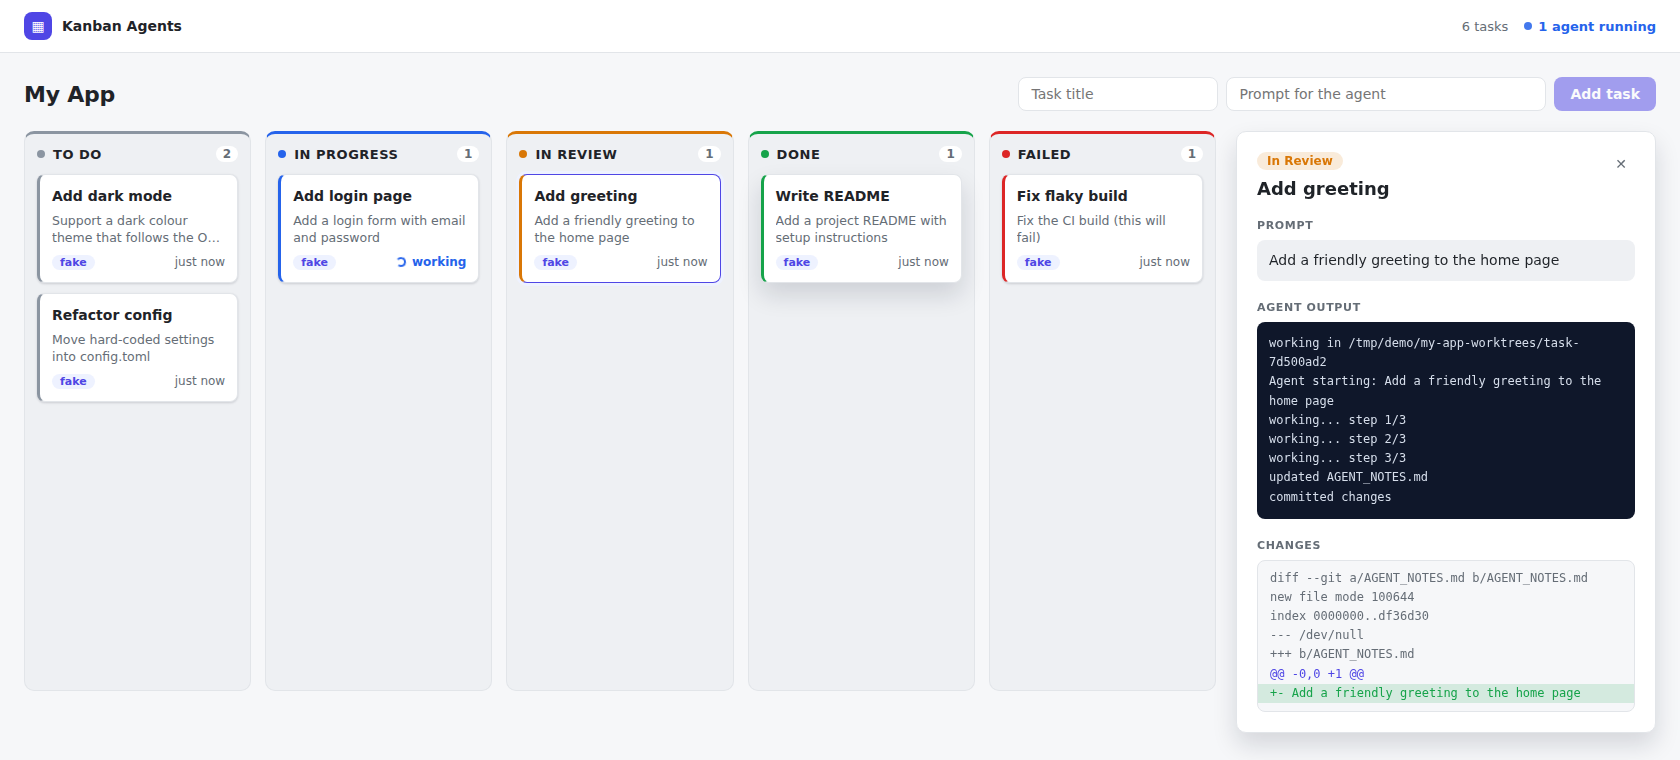
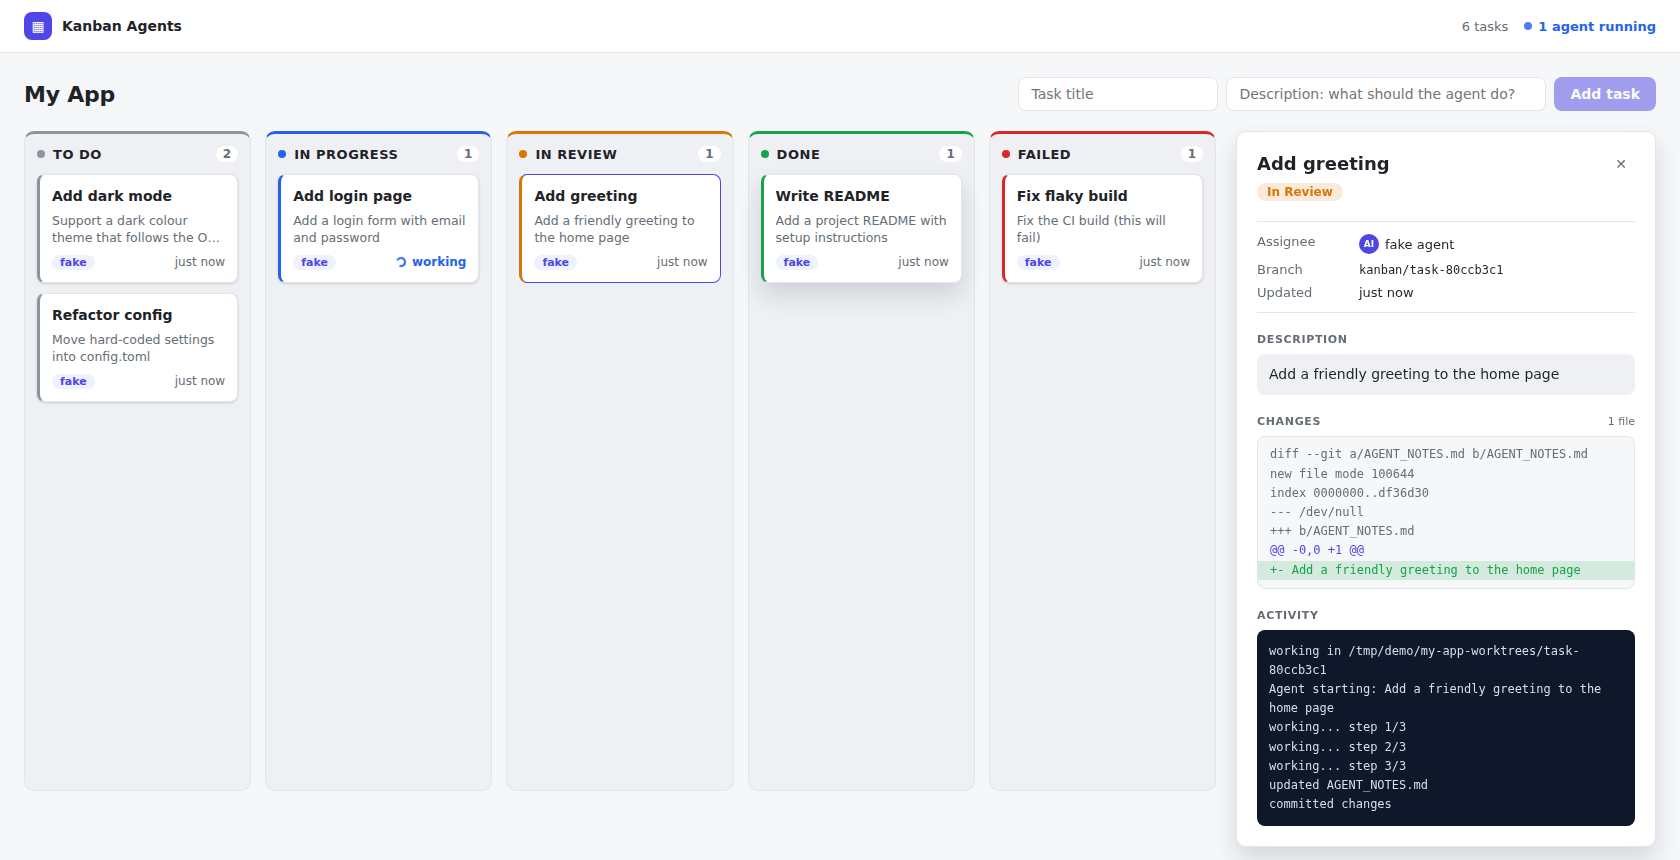
Task panel: Jira-style details, description, changes, activity

diff --git a/web/src/gql/graphql.ts b/web/src/gql/graphql.ts
@@ -41,7 +41,7 @@ export type TaskLogsQueryVariables = Exact<{
 }>;
 
 
-export type TaskLogsQuery = { task: { id: string, title: string, status: TaskStatus, prompt: string, diff: string | null, logs: Array<{ runId: string, seq: number, content: string }> } | null };
+export type TaskLogsQuery = { task: { id: string, title: string, status: TaskStatus, prompt: string, agent: AgentKind, branch: string | null, updatedAt: string, diff: string | null, logs: Array<{ runId: string, seq: number, content: string }> } | null };
 
 export type TaskLogsLiveSubscriptionVariables = Exact<{
   taskId: string;
@@ -63,6 +63,6 @@ export type CreateTaskMutation = { createTask: { id: string } };
 export const BoardDocument = {"kind":"Document","definitions":[{"kind":"OperationDefinition","operation":"query","name":{"kind":"Name","value":"Board"},"selectionSet":{"kind":"SelectionSet","selections":[{"kind":"Field","name":{"kind":"Name","value":"projects"},"selectionSet":{"kind":"SelectionSet","selections":[{"kind":"Field","name":{"kind":"Name","value":"id"}},{"kind":"Field","name":{"kind":"Name","value":"name"}},{"kind":"Field","name":{"kind":"Name","value":"tasks"},"selectionSet":{"kind":"SelectionSet","selections":[{"kind":"Field","name":{"kind":"Name","value":"id"}},{"kind":"Field","name":{"kind":"Name","value":"title"}},{"kind":"Field","name":{"kind":"Name","value":"prompt"}},{"kind":"Field","name":{"kind":"Name","value":"status"}},{"kind":"Field","name":{"kind":"Name","value":"agent"}},{"kind":"Field","name":{"kind":"Name","value":"updatedAt"}}]}}]}}]}}]} as unknown as DocumentNode<BoardQuery, BoardQueryVariables>;
 export const MoveTaskDocument = {"kind":"Document","definitions":[{"kind":"OperationDefinition","operation":"mutation","name":{"kind":"Name","value":"MoveTask"},"variableDefinitions":[{"kind":"VariableDefinition","variable":{"kind":"Variable","name":{"kind":"Name","value":"id"}},"type":{"kind":"NonNullType","type":{"kind":"NamedType","name":{"kind":"Name","value":"UUID"}}}},{"kind":"VariableDefinition","variable":{"kind":"Variable","name":{"kind":"Name","value":"status"}},"type":{"kind":"NonNullType","type":{"kind":"NamedType","name":{"kind":"Name","value":"TaskStatus"}}}}],"selectionSet":{"kind":"SelectionSet","selections":[{"kind":"Field","name":{"kind":"Name","value":"moveTask"},"arguments":[{"kind":"Argument","name":{"kind":"Name","value":"id"},"value":{"kind":"Variable","name":{"kind":"Name","value":"id"}}},{"kind":"Argument","name":{"kind":"Name","value":"status"},"value":{"kind":"Variable","name":{"kind":"Name","value":"status"}}}],"selectionSet":{"kind":"SelectionSet","selections":[{"kind":"Field","name":{"kind":"Name","value":"id"}},{"kind":"Field","name":{"kind":"Name","value":"status"}}]}}]}}]} as unknown as DocumentNode<MoveTaskMutation, MoveTaskMutationVariables>;
 export const TaskUpdatedDocument = {"kind":"Document","definitions":[{"kind":"OperationDefinition","operation":"subscription","name":{"kind":"Name","value":"TaskUpdated"},"variableDefinitions":[{"kind":"VariableDefinition","variable":{"kind":"Variable","name":{"kind":"Name","value":"projectId"}},"type":{"kind":"NonNullType","type":{"kind":"NamedType","name":{"kind":"Name","value":"UUID"}}}}],"selectionSet":{"kind":"SelectionSet","selections":[{"kind":"Field","name":{"kind":"Name","value":"taskUpdated"},"arguments":[{"kind":"Argument","name":{"kind":"Name","value":"projectId"},"value":{"kind":"Variable","name":{"kind":"Name","value":"projectId"}}}],"selectionSet":{"kind":"SelectionSet","selections":[{"kind":"Field","name":{"kind":"Name","value":"id"}}]}}]}}]} as unknown as DocumentNode<TaskUpdatedSubscription, TaskUpdatedSubscriptionVariables>;
-export const TaskLogsDocument = {"kind":"Document","definitions":[{"kind":"OperationDefinition","operation":"query","name":{"kind":"Name","value":"TaskLogs"},"variableDefinitions":[{"kind":"VariableDefinition","variable":{"kind":"Variable","name":{"kind":"Name","value":"id"}},"type":{"kind":"NonNullType","type":{"kind":"NamedType","name":{"kind":"Name","value":"UUID"}}}}],"selectionSet":{"kind":"SelectionSet","selections":[{"kind":"Field","name":{"kind":"Name","value":"task"},"arguments":[{"kind":"Argument","name":{"kind":"Name","value":"id"},"value":{"kind":"Variable","name":{"kind":"Name","value":"id"}}}],"selectionSet":{"kind":"SelectionSet","selections":[{"kind":"Field","name":{"kind":"Name","value":"id"}},{"kind":"Field","name":{"kind":"Name","value":"title"}},{"kind":"Field","name":{"kind":"Name","value":"status"}},{"kind":"Field","name":{"kind":"Name","value":"prompt"}},{"kind":"Field","name":{"kind":"Name","value":"diff"}},{"kind":"Field","name":{"kind":"Name","value":"logs"},"selectionSet":{"kind":"SelectionSet","selections":[{"kind":"Field","name":{"kind":"Name","value":"runId"}},{"kind":"Field","name":{"kind":"Name","value":"seq"}},{"kind":"Field","name":{"kind":"Name","value":"content"}}]}}]}}]}}]} as unknown as DocumentNode<TaskLogsQuery, TaskLogsQueryVariables>;
+export const TaskLogsDocument = {"kind":"Document","definitions":[{"kind":"OperationDefinition","operation":"query","name":{"kind":"Name","value":"TaskLogs"},"variableDefinitions":[{"kind":"VariableDefinition","variable":{"kind":"Variable","name":{"kind":"Name","value":"id"}},"type":{"kind":"NonNullType","type":{"kind":"NamedType","name":{"kind":"Name","value":"UUID"}}}}],"selectionSet":{"kind":"SelectionSet","selections":[{"kind":"Field","name":{"kind":"Name","value":"task"},"arguments":[{"kind":"Argument","name":{"kind":"Name","value":"id"},"value":{"kind":"Variable","name":{"kind":"Name","value":"id"}}}],"selectionSet":{"kind":"SelectionSet","selections":[{"kind":"Field","name":{"kind":"Name","value":"id"}},{"kind":"Field","name":{"kind":"Name","value":"title"}},{"kind":"Field","name":{"kind":"Name","value":"status"}},{"kind":"Field","name":{"kind":"Name","value":"prompt"}},{"kind":"Field","name":{"kind":"Name","value":"agent"}},{"kind":"Field","name":{"kind":"Name","value":"branch"}},{"kind":"Field","name":{"kind":"Name","value":"updatedAt"}},{"kind":"Field","name":{"kind":"Name","value":"diff"}},{"kind":"Field","name":{"kind":"Name","value":"logs"},"selectionSet":{"kind":"SelectionSet","selections":[{"kind":"Field","name":{"kind":"Name","value":"runId"}},{"kind":"Field","name":{"kind":"Name","value":"seq"}},{"kind":"Field","name":{"kind":"Name","value":"content"}}]}}]}}]}}]} as unknown as DocumentNode<TaskLogsQuery, TaskLogsQueryVariables>;
 export const TaskLogsLiveDocument = {"kind":"Document","definitions":[{"kind":"OperationDefinition","operation":"subscription","name":{"kind":"Name","value":"TaskLogsLive"},"variableDefinitions":[{"kind":"VariableDefinition","variable":{"kind":"Variable","name":{"kind":"Name","value":"taskId"}},"type":{"kind":"NonNullType","type":{"kind":"NamedType","name":{"kind":"Name","value":"UUID"}}}}],"selectionSet":{"kind":"SelectionSet","selections":[{"kind":"Field","name":{"kind":"Name","value":"taskLogs"},"arguments":[{"kind":"Argument","name":{"kind":"Name","value":"taskId"},"value":{"kind":"Variable","name":{"kind":"Name","value":"taskId"}}}],"selectionSet":{"kind":"SelectionSet","selections":[{"kind":"Field","name":{"kind":"Name","value":"runId"}},{"kind":"Field","name":{"kind":"Name","value":"seq"}},{"kind":"Field","name":{"kind":"Name","value":"content"}}]}}]}}]} as unknown as DocumentNode<TaskLogsLiveSubscription, TaskLogsLiveSubscriptionVariables>;
 export const CreateTaskDocument = {"kind":"Document","definitions":[{"kind":"OperationDefinition","operation":"mutation","name":{"kind":"Name","value":"CreateTask"},"variableDefinitions":[{"kind":"VariableDefinition","variable":{"kind":"Variable","name":{"kind":"Name","value":"projectId"}},"type":{"kind":"NonNullType","type":{"kind":"NamedType","name":{"kind":"Name","value":"UUID"}}}},{"kind":"VariableDefinition","variable":{"kind":"Variable","name":{"kind":"Name","value":"title"}},"type":{"kind":"NonNullType","type":{"kind":"NamedType","name":{"kind":"Name","value":"String"}}}},{"kind":"VariableDefinition","variable":{"kind":"Variable","name":{"kind":"Name","value":"prompt"}},"type":{"kind":"NonNullType","type":{"kind":"NamedType","name":{"kind":"Name","value":"String"}}}}],"selectionSet":{"kind":"SelectionSet","selections":[{"kind":"Field","name":{"kind":"Name","value":"createTask"},"arguments":[{"kind":"Argument","name":{"kind":"Name","value":"projectId"},"value":{"kind":"Variable","name":{"kind":"Name","value":"projectId"}}},{"kind":"Argument","name":{"kind":"Name","value":"title"},"value":{"kind":"Variable","name":{"kind":"Name","value":"title"}}},{"kind":"Argument","name":{"kind":"Name","value":"prompt"},"value":{"kind":"Variable","name":{"kind":"Name","value":"prompt"}}}],"selectionSet":{"kind":"SelectionSet","selections":[{"kind":"Field","name":{"kind":"Name","value":"id"}}]}}]}}]} as unknown as DocumentNode<CreateTaskMutation, CreateTaskMutationVariables>;

diff --git a/web/src/gql/gql.ts b/web/src/gql/gql.ts
@@ -17,7 +17,7 @@ type Documents = {
     "\n  query Board {\n    projects {\n      id\n      name\n      tasks {\n        id\n        title\n        prompt\n        status\n        agent\n        updatedAt\n      }\n    }\n  }\n": typeof types.BoardDocument,
     "\n  mutation MoveTask($id: UUID!, $status: TaskStatus!) {\n    moveTask(id: $id, status: $status) {\n      id\n      status\n    }\n  }\n": typeof types.MoveTaskDocument,
     "\n  subscription TaskUpdated($projectId: UUID!) {\n    taskUpdated(projectId: $projectId) {\n      id\n    }\n  }\n": typeof types.TaskUpdatedDocument,
-    "\n  query TaskLogs($id: UUID!) {\n    task(id: $id) {\n      id\n      title\n      status\n      prompt\n      diff\n      logs {\n        runId\n        seq\n        content\n      }\n    }\n  }\n": typeof types.TaskLogsDocument,
+    "\n  query TaskLogs($id: UUID!) {\n    task(id: $id) {\n      id\n      title\n      status\n      prompt\n      agent\n      branch\n      updatedAt\n      diff\n      logs {\n        runId\n        seq\n        content\n      }\n    }\n  }\n": typeof types.TaskLogsDocument,
     "\n  subscription TaskLogsLive($taskId: UUID!) {\n    taskLogs(taskId: $taskId) {\n      runId\n      seq\n      content\n    }\n  }\n": typeof types.TaskLogsLiveDocument,
     "\n  mutation CreateTask($projectId: UUID!, $title: String!, $prompt: String!) {\n    createTask(projectId: $projectId, title: $title, prompt: $prompt) {\n      id\n    }\n  }\n": typeof types.CreateTaskDocument,
 };
@@ -25,7 +25,7 @@ const documents: Documents = {
     "\n  query Board {\n    projects {\n      id\n      name\n      tasks {\n        id\n        title\n        prompt\n        status\n        agent\n        updatedAt\n      }\n    }\n  }\n": types.BoardDocument,
     "\n  mutation MoveTask($id: UUID!, $status: TaskStatus!) {\n    moveTask(id: $id, status: $status) {\n      id\n      status\n    }\n  }\n": types.MoveTaskDocument,
     "\n  subscription TaskUpdated($projectId: UUID!) {\n    taskUpdated(projectId: $projectId) {\n      id\n    }\n  }\n": types.TaskUpdatedDocument,
-    "\n  query TaskLogs($id: UUID!) {\n    task(id: $id) {\n      id\n      title\n      status\n      prompt\n      diff\n      logs {\n        runId\n        seq\n        content\n      }\n    }\n  }\n": types.TaskLogsDocument,
+    "\n  query TaskLogs($id: UUID!) {\n    task(id: $id) {\n      id\n      title\n      status\n      prompt\n      agent\n      branch\n      updatedAt\n      diff\n      logs {\n        runId\n        seq\n        content\n      }\n    }\n  }\n": types.TaskLogsDocument,
     "\n  subscription TaskLogsLive($taskId: UUID!) {\n    taskLogs(taskId: $taskId) {\n      runId\n      seq\n      content\n    }\n  }\n": types.TaskLogsLiveDocument,
     "\n  mutation CreateTask($projectId: UUID!, $title: String!, $prompt: String!) {\n    createTask(projectId: $projectId, title: $title, prompt: $prompt) {\n      id\n    }\n  }\n": types.CreateTaskDocument,
 };
@@ -59,7 +59,7 @@ export function graphql(source: "\n  subscription TaskUpdated($projectId: UUID!)
 /**
  * The graphql function is used to parse GraphQL queries into a document that can be used by GraphQL clients.
  */
-export function graphql(source: "\n  query TaskLogs($id: UUID!) {\n    task(id: $id) {\n      id\n      title\n      status\n      prompt\n      diff\n      logs {\n        runId\n        seq\n        content\n      }\n    }\n  }\n"): (typeof documents)["\n  query TaskLogs($id: UUID!) {\n    task(id: $id) {\n      id\n      title\n      status\n      prompt\n      diff\n      logs {\n        runId\n        seq\n        content\n      }\n    }\n  }\n"];
+export function graphql(source: "\n  query TaskLogs($id: UUID!) {\n    task(id: $id) {\n      id\n      title\n      status\n      prompt\n      agent\n      branch\n      updatedAt\n      diff\n      logs {\n        runId\n        seq\n        content\n      }\n    }\n  }\n"): (typeof documents)["\n  query TaskLogs($id: UUID!) {\n    task(id: $id) {\n      id\n      title\n      status\n      prompt\n      agent\n      branch\n      updatedAt\n      diff\n      logs {\n        runId\n        seq\n        content\n      }\n    }\n  }\n"];
 /**
  * The graphql function is used to parse GraphQL queries into a document that can be used by GraphQL clients.
  */

diff --git a/web/src/components/LogPanel.tsx b/web/src/components/LogPanel.tsx
@@ -1,6 +1,7 @@
 import { useMemo } from 'react'
 import { useQuery, useSubscription } from 'urql'
 import { graphql } from '../gql'
+import { timeAgo } from '../time'
 
 const TaskLogsQuery = graphql(`
   query TaskLogs($id: UUID!) {
@@ -9,6 +10,9 @@ const TaskLogsQuery = graphql(`
       title
       status
       prompt
+      agent
+      branch
+      updatedAt
       diff
       logs {
         runId
@@ -87,30 +91,53 @@ export function LogPanel({ taskId, onClose }: { taskId: string; onClose: () => v
   const bySeq = new Map(all.filter((l) => l.runId === latestRun).map((l) => [l.seq, l]))
   const lines = [...bySeq.values()].sort((a, b) => a.seq - b.seq)
 
+  const filesChanged = task.diff?.match(/^diff --git/gm)?.length ?? 0
+
   return (
     <aside className="log-panel">
       <header>
         <div>
+          <h2>{task.title}</h2>
           <span className="status-badge" data-status={task.status}>
             {STATUS_LABEL[task.status]}
           </span>
-          <h2>{task.title}</h2>
         </div>
         <button onClick={onClose} aria-label="Close">
           ✕
         </button>
       </header>
 
-      {task.prompt && (
+      <dl className="details">
+        <dt>Assignee</dt>
+        <dd className="assignee">
+          <span className="avatar">AI</span> {task.agent.toLowerCase()} agent
+        </dd>
+        <dt>Branch</dt>
+        <dd>{task.branch ? <code>{task.branch}</code> : 'not started'}</dd>
+        <dt>Updated</dt>
+        <dd>{timeAgo(task.updatedAt)}</dd>
+      </dl>
+
+      <section>
+        <h3>Description</h3>
+        <p className="description">{task.prompt || 'No description.'}</p>
+      </section>
+
+      {task.diff && (
         <section>
-          <h3>Prompt</h3>
-          <p className="prompt">{task.prompt}</p>
+          <h3>
+            Changes
+            <span className="aside">
+              {filesChanged} file{filesChanged === 1 ? '' : 's'}
+            </span>
+          </h3>
+          <DiffView diff={task.diff} />
         </section>
       )}
 
       <section>
         <h3>
-          Agent output
+          Activity
           {task.status === 'IN_PROGRESS' && (
             <span className="live">
               <span className="pulse" /> live
@@ -119,17 +146,10 @@ export function LogPanel({ taskId, onClose }: { taskId: string; onClose: () => v
         </h3>
         <pre className="terminal">
           {lines.length === 0
-            ? 'No agent output yet. Drag the card to In Progress to start.'
+            ? 'No activity yet. Drag the card to In Progress to start the agent.'
             : lines.map((l) => l.content).join('\n')}
         </pre>
       </section>
-
-      {task.diff && (
-        <section>
-          <h3>Changes</h3>
-          <DiffView diff={task.diff} />
-        </section>
-      )}
     </aside>
   )
 }

diff --git a/web/e2e/board.spec.ts b/web/e2e/board.spec.ts
@@ -38,9 +38,9 @@ const column = (page: Page, name: string) =>
 
 const card = (page: Page, title: string) => page.locator('.card', { hasText: title })
 
-async function addTask(page: Page, title: string, prompt: string) {
+async function addTask(page: Page, title: string, description: string) {
   await page.getByPlaceholder('Task title').fill(title)
-  await page.getByPlaceholder('Prompt for the agent').fill(prompt)
+  await page.getByPlaceholder('Description').fill(description)
   await page.getByRole('button', { name: 'Add task' }).click()
   await expect(column(page, 'To Do').locator('.card', { hasText: title })).toBeVisible()
 }
@@ -68,13 +68,13 @@ test('agent works on a task and the review shows its diff', async ({ page }) => 
 
   // Live logs arrive through the subscription while the agent runs
   const panel = page.locator('.log-panel')
-  await expect(panel.locator('pre').first()).toContainText('working... step 1/3')
+  await expect(panel.locator('pre.terminal')).toContainText('working... step 1/3')
 
   // The card moves by itself when the agent finishes
   await expect(column(page, 'In Review').locator('.card', { hasText: 'Add greeting' })).toBeVisible({
     timeout: 15_000,
   })
-  await expect(panel.locator('pre').first()).toContainText('committed changes')
+  await expect(panel.locator('pre.terminal')).toContainText('committed changes')
   await expect(panel.getByRole('heading', { name: 'Changes' })).toBeVisible()
   await expect(panel.locator('pre.diff .add', { hasText: '+- add a greeting' })).toBeVisible()
 })
@@ -88,7 +88,7 @@ test('failing agent moves the card to Failed', async ({ page }) => {
     timeout: 15_000,
   })
   await card(page, 'Broken task').click()
-  await expect(page.locator('.log-panel pre').first()).toContainText('something went wrong')
+  await expect(page.locator('.log-panel pre.terminal')).toContainText('something went wrong')
   await expect(page.locator('.log-panel pre.diff')).toHaveCount(0) // nothing to review
 })
 

diff --git a/web/src/index.css b/web/src/index.css
@@ -151,7 +151,7 @@ h1 {
   transition: border-color 0.15s, box-shadow 0.15s;
 }
 
-.new-task .prompt-input {
+.new-task .description-input {
   width: 320px;
 }
 
@@ -308,7 +308,7 @@ h1 {
   line-height: 1.35;
 }
 
-.card-prompt {
+.card-description {
   margin: 0;
   color: var(--muted);
   font-size: 12.5px;
@@ -394,8 +394,9 @@ h1 {
 }
 
 .log-panel h2 {
-  margin: 8px 0 0;
+  margin: 0 0 8px;
   font-size: 18px;
+  line-height: 1.3;
 }
 
 .log-panel header button {
@@ -438,6 +439,7 @@ h1 {
 }
 
 .live {
+  margin-left: auto;
   display: flex;
   align-items: center;
   gap: 5px;
@@ -446,7 +448,59 @@ h1 {
   letter-spacing: 0;
 }
 
-.log-panel .prompt {
+/* Assignee / Branch / Updated, like Jira's fields */
+.details {
+  display: grid;
+  grid-template-columns: 90px 1fr;
+  gap: 8px 12px;
+  margin: 20px 0 0;
+  padding: 12px 0;
+  border-top: 1px solid var(--border);
+  border-bottom: 1px solid var(--border);
+  font-size: 13px;
+}
+
+.details dt {
+  color: var(--muted);
+}
+
+.details dd {
+  margin: 0;
+  min-width: 0;
+  overflow-wrap: anywhere;
+}
+
+.assignee {
+  display: flex;
+  align-items: center;
+  gap: 6px;
+}
+
+.avatar {
+  display: grid;
+  place-items: center;
+  width: 20px;
+  height: 20px;
+  border-radius: 50%;
+  background: var(--accent);
+  color: white;
+  font-size: 9px;
+  font-weight: 700;
+}
+
+.details code {
+  font-family: ui-monospace, 'Cascadia Code', Menlo, monospace;
+  font-size: 12px;
+}
+
+.log-panel h3 .aside {
+  margin-left: auto;
+  text-transform: none;
+  letter-spacing: 0;
+  font-weight: 500;
+}
+
+.log-panel .description {
   margin: 0;
   padding: 10px 12px;
   border-radius: 8px;

diff --git a/web/src/components/NewTaskForm.tsx b/web/src/components/NewTaskForm.tsx
@@ -12,17 +12,18 @@ const CreateTaskMutation = graphql(`
 
 export function NewTaskForm({ projectId }: { projectId: string }) {
   const [title, setTitle] = useState('')
-  const [prompt, setPrompt] = useState('')
+  const [description, setDescription] = useState('')
   const [result, createTask] = useMutation(CreateTaskMutation)
 
   async function handleSubmit(e: FormEvent<HTMLFormElement>) {
     e.preventDefault() // stop the browser from reloading the page
     if (!title.trim()) return
 
-    const res = await createTask({ projectId, title, prompt })
+    // The API calls it prompt: the description is what the agent reads
+    const res = await createTask({ projectId, title, prompt: description })
     if (!res.error) {
       setTitle('')
-      setPrompt('')
+      setDescription('')
     }
   }
 
@@ -30,10 +31,10 @@ export function NewTaskForm({ projectId }: { projectId: string }) {
     <form className="new-task" onSubmit={handleSubmit}>
       <input placeholder="Task title" value={title} onChange={(e) => setTitle(e.target.value)} />
       <input
-        className="prompt-input"
-        placeholder="Prompt for the agent"
-        value={prompt}
-        onChange={(e) => setPrompt(e.target.value)}
+        className="description-input"
+        placeholder="Description: what should the agent do?"
+        value={description}
+        onChange={(e) => setDescription(e.target.value)}
       />
       <button disabled={result.fetching || !title.trim()}>Add task</button>
       {result.error && <span className="error">{result.error.message}</span>}

diff --git a/web/src/components/TaskCard.tsx b/web/src/components/TaskCard.tsx
@@ -1,10 +1,11 @@
 import { useDraggable } from '@dnd-kit/core'
 import type { TaskStatus } from '../gql/graphql'
+import { timeAgo } from '../time'
 
 type Props = {
   id: string
   title: string
-  prompt: string
+  description: string
   status: TaskStatus
   agent: string
   updatedAt: string
@@ -12,16 +13,7 @@ type Props = {
   onSelect: (id: string) => void
 }
 
-// "just now", "5m ago", "3h ago", "2d ago"
-function timeAgo(iso: string) {
-  const minutes = Math.floor((Date.now() - new Date(iso).getTime()) / 60_000)
-  if (minutes < 1) return 'just now'
-  if (minutes < 60) return `${minutes}m ago`
-  if (minutes < 60 * 24) return `${Math.floor(minutes / 60)}h ago`
-  return `${Math.floor(minutes / (60 * 24))}d ago`
-}
-
-export function TaskCard({ id, title, prompt, status, agent, updatedAt, selected, onSelect }: Props) {
+export function TaskCard({ id, title, description, status, agent, updatedAt, selected, onSelect }: Props) {
   const { attributes, listeners, setNodeRef, transform, isDragging } = useDraggable({ id })
 
   // While dragging, dnd-kit tells us how far the pointer moved; we shift the card by that much
@@ -42,7 +34,7 @@ export function TaskCard({ id, title, prompt, status, agent, updatedAt, selected
       {...attributes}
     >
       <strong>{title}</strong>
-      {prompt && <p className="card-prompt">{prompt}</p>}
+      {description && <p className="card-description">{description}</p>}
       <footer>
         <span className="badge">{agent.toLowerCase()}</span>
         {status === 'IN_PROGRESS' ? (

diff --git a/web/src/App.tsx b/web/src/App.tsx
@@ -128,7 +128,7 @@ export default function App() {
                         key={t.id}
                         id={t.id}
                         title={t.title}
-                        prompt={t.prompt}
+                        description={t.prompt}
                         status={t.status}
                         agent={t.agent}
                         updatedAt={t.updatedAt}

diff --git a/web/src/time.ts b/web/src/time.ts
@@ -1,0 +1,8 @@
+// "just now", "5m ago", "3h ago", "2d ago"
+export function timeAgo(iso: string) {
+  const minutes = Math.floor((Date.now() - new Date(iso).getTime()) / 60_000)
+  if (minutes < 1) return 'just now'
+  if (minutes < 60) return `${minutes}m ago`
+  if (minutes < 60 * 24) return `${Math.floor(minutes / 60)}h ago`
+  return `${Math.floor(minutes / (60 * 24))}d ago`
+}

diff --git a/README.md b/README.md
@@ -117,7 +117,7 @@ Create a project that points at any local git repo with a `main` branch (in Grap
 mutation { createProject(name: "My app", repoPath: "/path/to/repo") { id } }
 ```
 
-Then add tasks in the UI and drag them to **In Progress**. Put the word `fail` in a prompt to
+Then add tasks in the UI and drag them to **In Progress**. Put the word `fail` in a description to
 see the failure path.
 
 ## Tests
